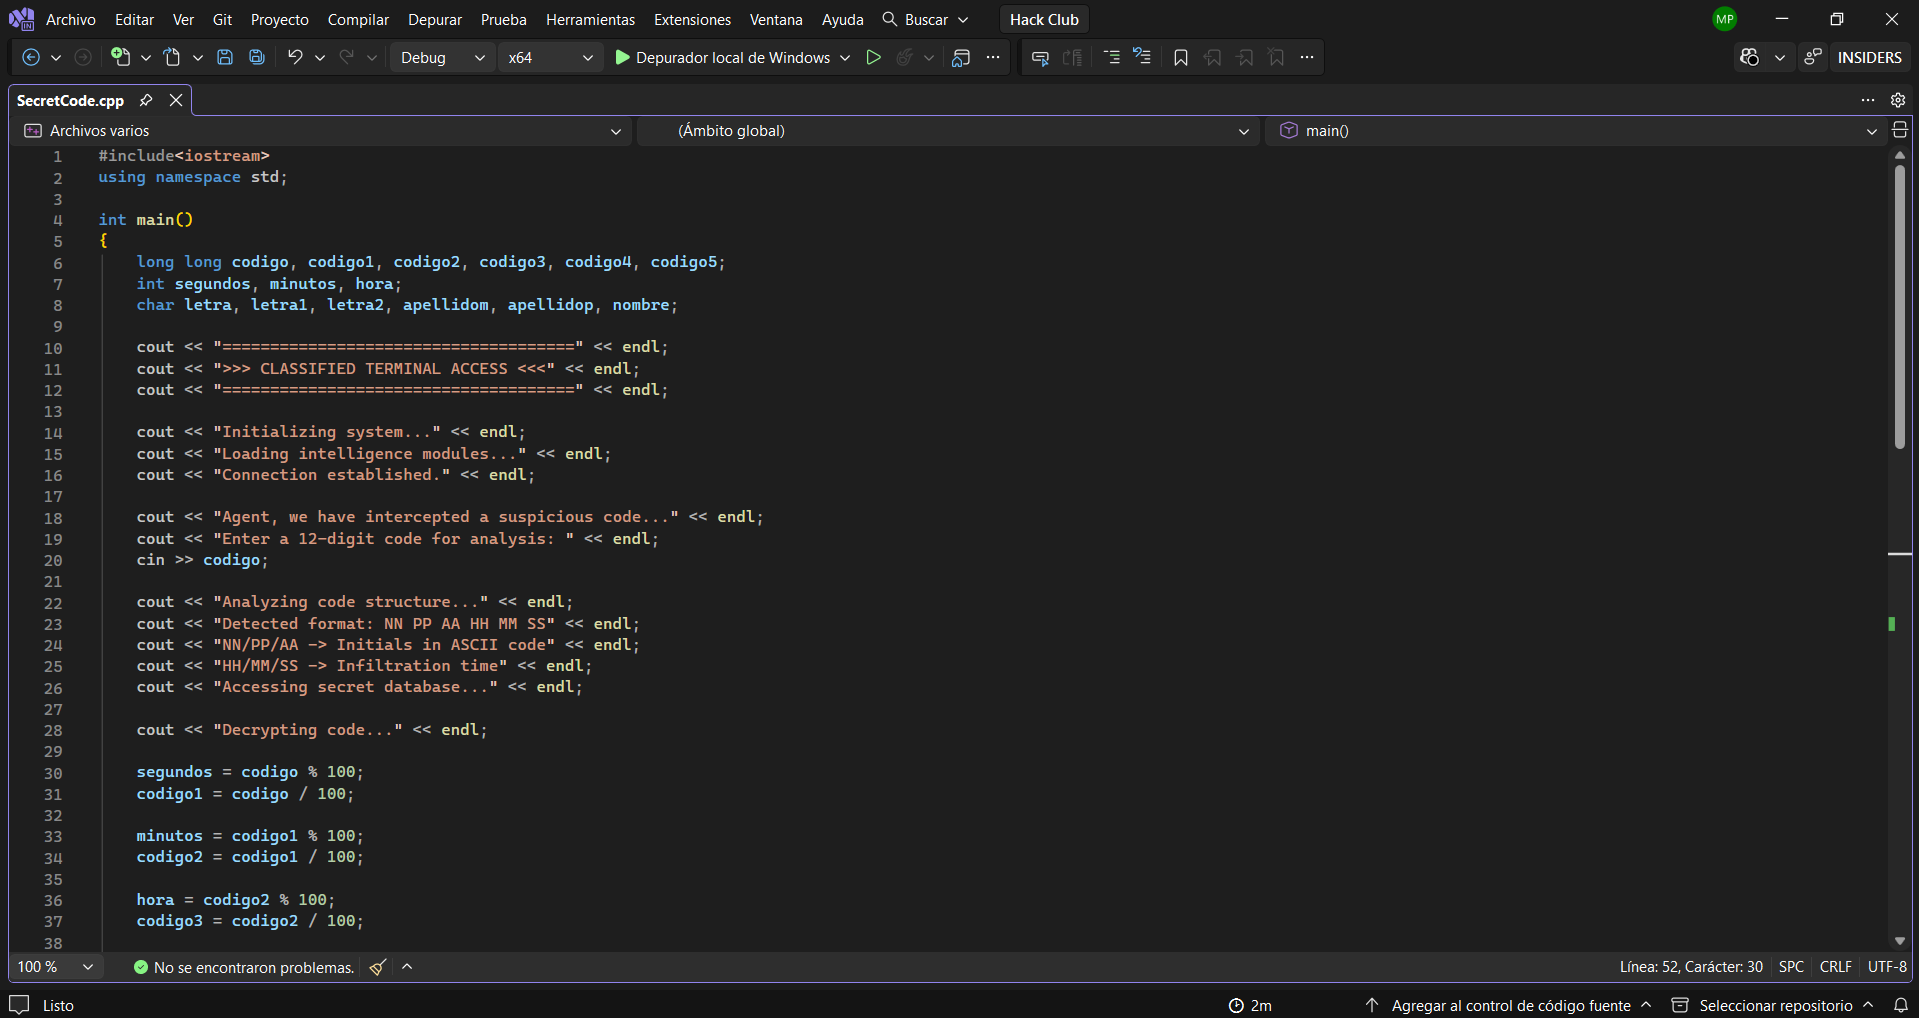
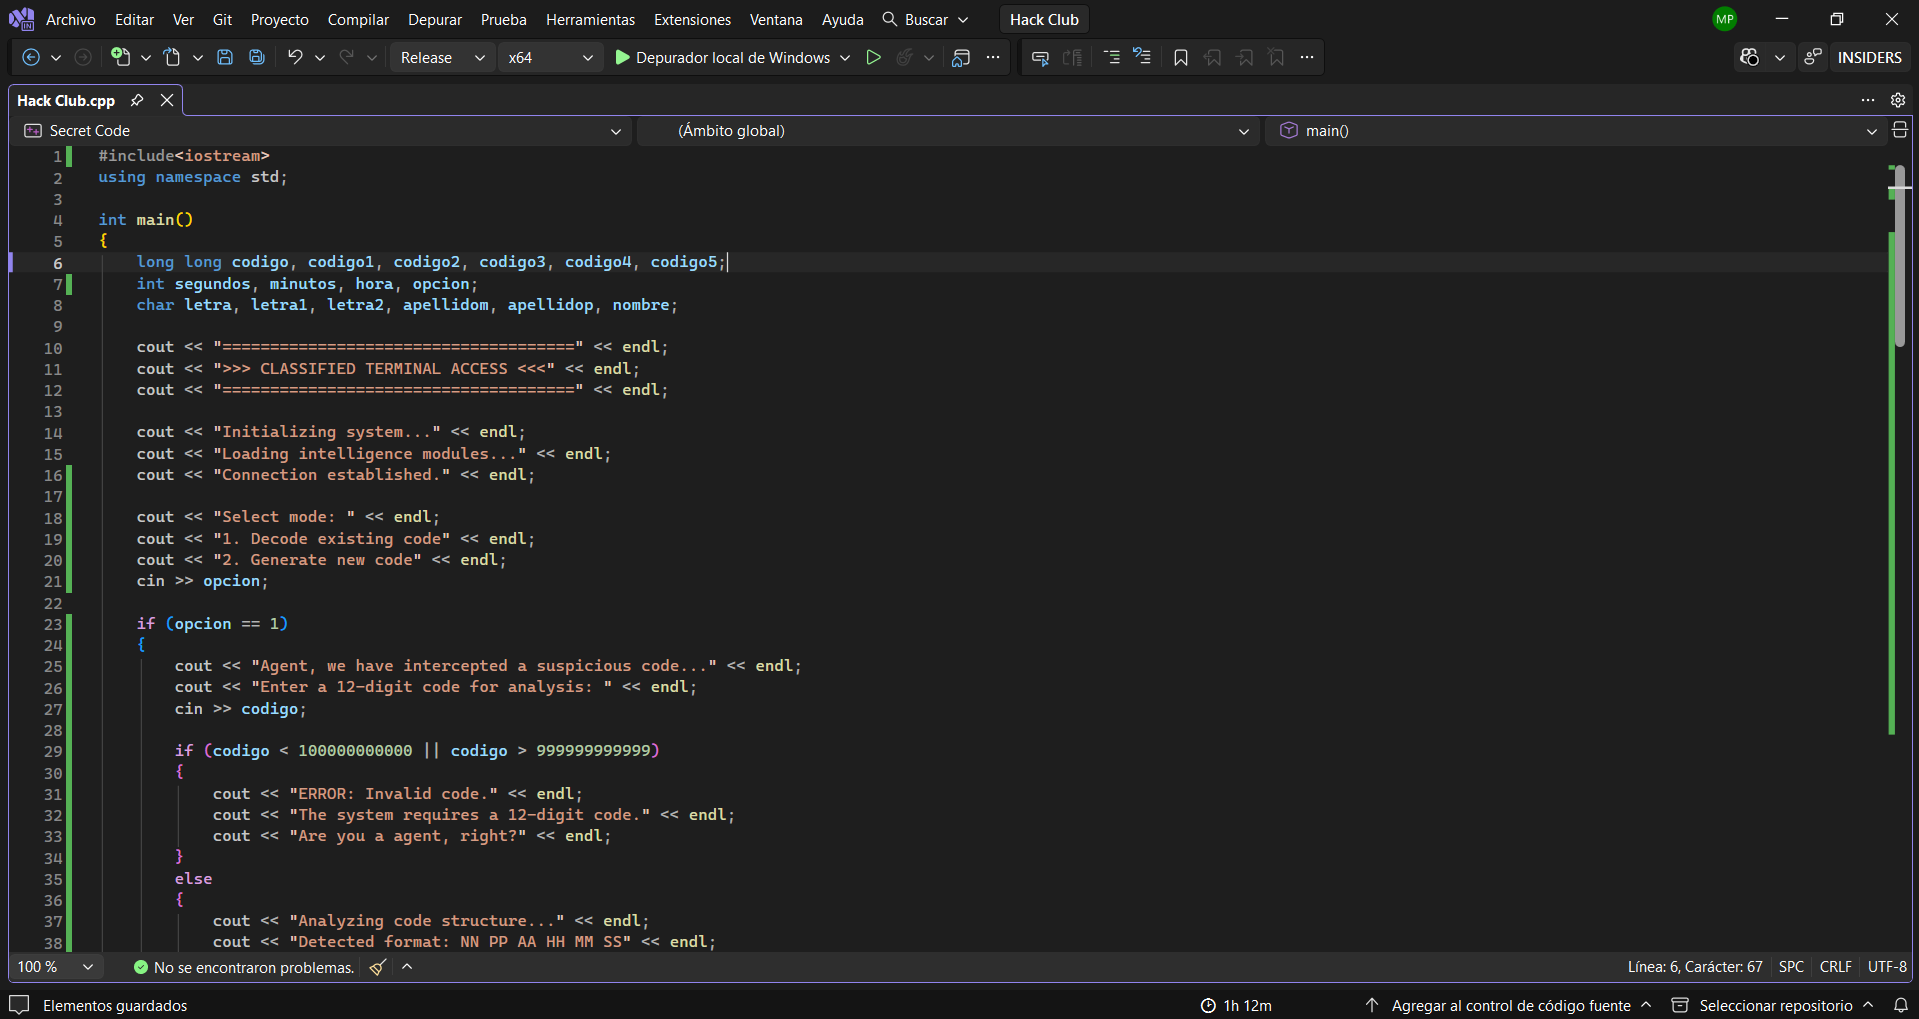
Update

diff --git a/Hack Club.cpp b/Hack Club.cpp
@@ -1,0 +1,118 @@
+#include<iostream>
+using namespace std;
+
+int main()
+{
+    long long codigo, codigo1, codigo2, codigo3, codigo4, codigo5;
+    int segundos, minutos, hora, opcion;
+    char letra, letra1, letra2, apellidom, apellidop, nombre;
+
+    cout << "=====================================" << endl;
+    cout << ">>> CLASSIFIED TERMINAL ACCESS <<<" << endl;
+    cout << "=====================================" << endl;
+
+    cout << "Initializing system..." << endl;
+    cout << "Loading intelligence modules..." << endl;
+    cout << "Connection established." << endl;
+
+    cout << "Select mode: " << endl;
+    cout << "1. Decode existing code" << endl;
+    cout << "2. Generate new code" << endl;
+    cin >> opcion;
+
+    if (opcion == 1)
+    {
+        cout << "Agent, we have intercepted a suspicious code..." << endl;
+        cout << "Enter a 12-digit code for analysis: " << endl;
+        cin >> codigo;
+
+        if (codigo < 100000000000 || codigo > 999999999999)
+        {
+            cout << "ERROR: Invalid code." << endl;
+            cout << "The system requires a 12-digit code." << endl;
+            cout << "Are you a agent, right?" << endl;
+        }
+        else
+        {
+            cout << "Analyzing code structure..." << endl;
+            cout << "Detected format: NN PP AA HH MM SS" << endl;
+            cout << "NN/PP/AA -> Initials in ASCII code" << endl;
+            cout << "HH/MM/SS -> Infiltration time" << endl;
+            cout << "Accessing secret database..." << endl;
+
+            cout << "Decrypting code..." << endl;
+
+            segundos = codigo % 100;
+            codigo1 = codigo / 100;
+
+            minutos = codigo1 % 100;
+            codigo2 = codigo1 / 100;
+
+            hora = codigo2 % 100;
+            codigo3 = codigo2 / 100;
+
+            letra = codigo3 % 100;
+            apellidom = char(letra);
+            codigo4 = codigo3 / 100;
+
+            letra1 = codigo4 % 100;
+            apellidop = char(letra1);
+            codigo5 = codigo4 / 100;
+
+            letra2 = codigo5 % 100;
+            nombre = char(letra2);
+
+            cout << "Decoding initials..." << endl;
+            cout << "Converting ASCII to characters..." << endl;
+            cout << "Extracting access time..." << endl;
+
+            cout << "=== DECRYPTED IDENTITY ===" << endl;
+            cout << "Agent initials: " << nombre << apellidop << apellidom << endl;
+            cout << "Infiltration time: " << hora << ":" << minutos << ":" << segundos << endl;
+
+            cout << "Status: ACCESS CONFIRMED" << endl;
+            cout << "Mission updated. Proceed with caution, agent." << endl;
+        }
+        
+    }
+    
+    else if (opcion == 2)
+    {
+        int nn, pp, aa, hora, minutos, segundos;
+        long long codigo;
+        char nombre, apellidop, apellidom;
+
+        cout << "Enter a munber for first initial (65-90): "; cin >> nn;
+        cout << "Enter a number for last name initial (65-90): "; cin >> pp;
+        cout << "Enter a number for seconde last name initial (65-90): "; cin >> aa;
+        cout << "Enter hour (0-23): "; cin >> hora;
+        cout << "Enter minutes (0-59): "; cin >> minutos;
+        cout << "Enter seconds (0-59): "; cin >> segundos;
+
+        codigo = nn;
+        nombre = char(nn);
+        codigo = codigo * 100 + pp;
+        apellidop = char(pp);
+        codigo = codigo * 100 + aa;
+        apellidom = char(aa);
+        codigo = codigo * 100 + hora;
+        codigo = codigo * 100 + minutos;
+        codigo = codigo * 100 + segundos;
+
+        cout << "Generating encrypted code..." << endl;
+        cout << "Generated code: " << codigo << endl;
+
+        cout << "=== AGENT CREATED===" << endl;
+        cout << "Agent initials: " << nombre << apellidop << apellidom << endl;
+        cout << "Infiltration time: " << hora << ":" << minutos << ":" << segundos << endl;
+        cout << "Status: READY FOR DEPLOYMENT" << endl;
+
+    }
+
+    else
+    {
+        cout << "Invalid option. Acces denied." << endl;
+    }
+
+    return 0;
+}

diff --git a/README.md b/README.md
@@ -12,16 +12,45 @@ The system simulates a decoding process where:
 - Part of the number represents an **infiltration time** (HH:MM:SS)
 - Another part is converted from **ASCII values into characters**, forming the agent’s initials
 
+## Update
+
+The program now includes **two working modes**:
+
+### 1. Decode Mode  
+Allows the user to enter a 12-digit code and retrieve the hidden information (initials and time).
+
+### 2. Generate Mode  
+Allows the user to input data step by step (ASCII values and time), generating a valid code automatically.
+
+This update makes the program more interactive and easier to use, reducing input errors and improving the overall experience.
+
+
 ## How It Works
 
-The input is a single 12-digit number.
+### Decode Mode
+The user enters a 12-digit number.
 
 The program:
 1. Splits the number into pairs of digits  
-2. Interprets each pair using mathematical operations  
-3. Converts some values into ASCII characters  
-4. Displays the decoded identity and time
+2. Interprets each segment using mathematical operations  
+3. Converts ASCII values into characters  
+4. Displays the decoded identity and time  
+
+### Generate Mode
+The user enters:
+- ASCII values (between 65 and 90) for initials  
+- Hour, minutes, and seconds  
+
+The program:
+1. Builds a valid 12-digit code  
+2. Displays the generated code  
+3. Shows the agent’s identity 
 
 ![Termninal](Images1/Terminal.png)
 
-All of this is done **without using strings, conditionals, or loops**, focusing purely on logic and number manipulation.
+## Technical Details
+
+- No **strings** are used  
+- Everything is handled with **numbers**  
+- Uses division and modulo to extract data  
+- Applies type conversion to interpret ASCII 
